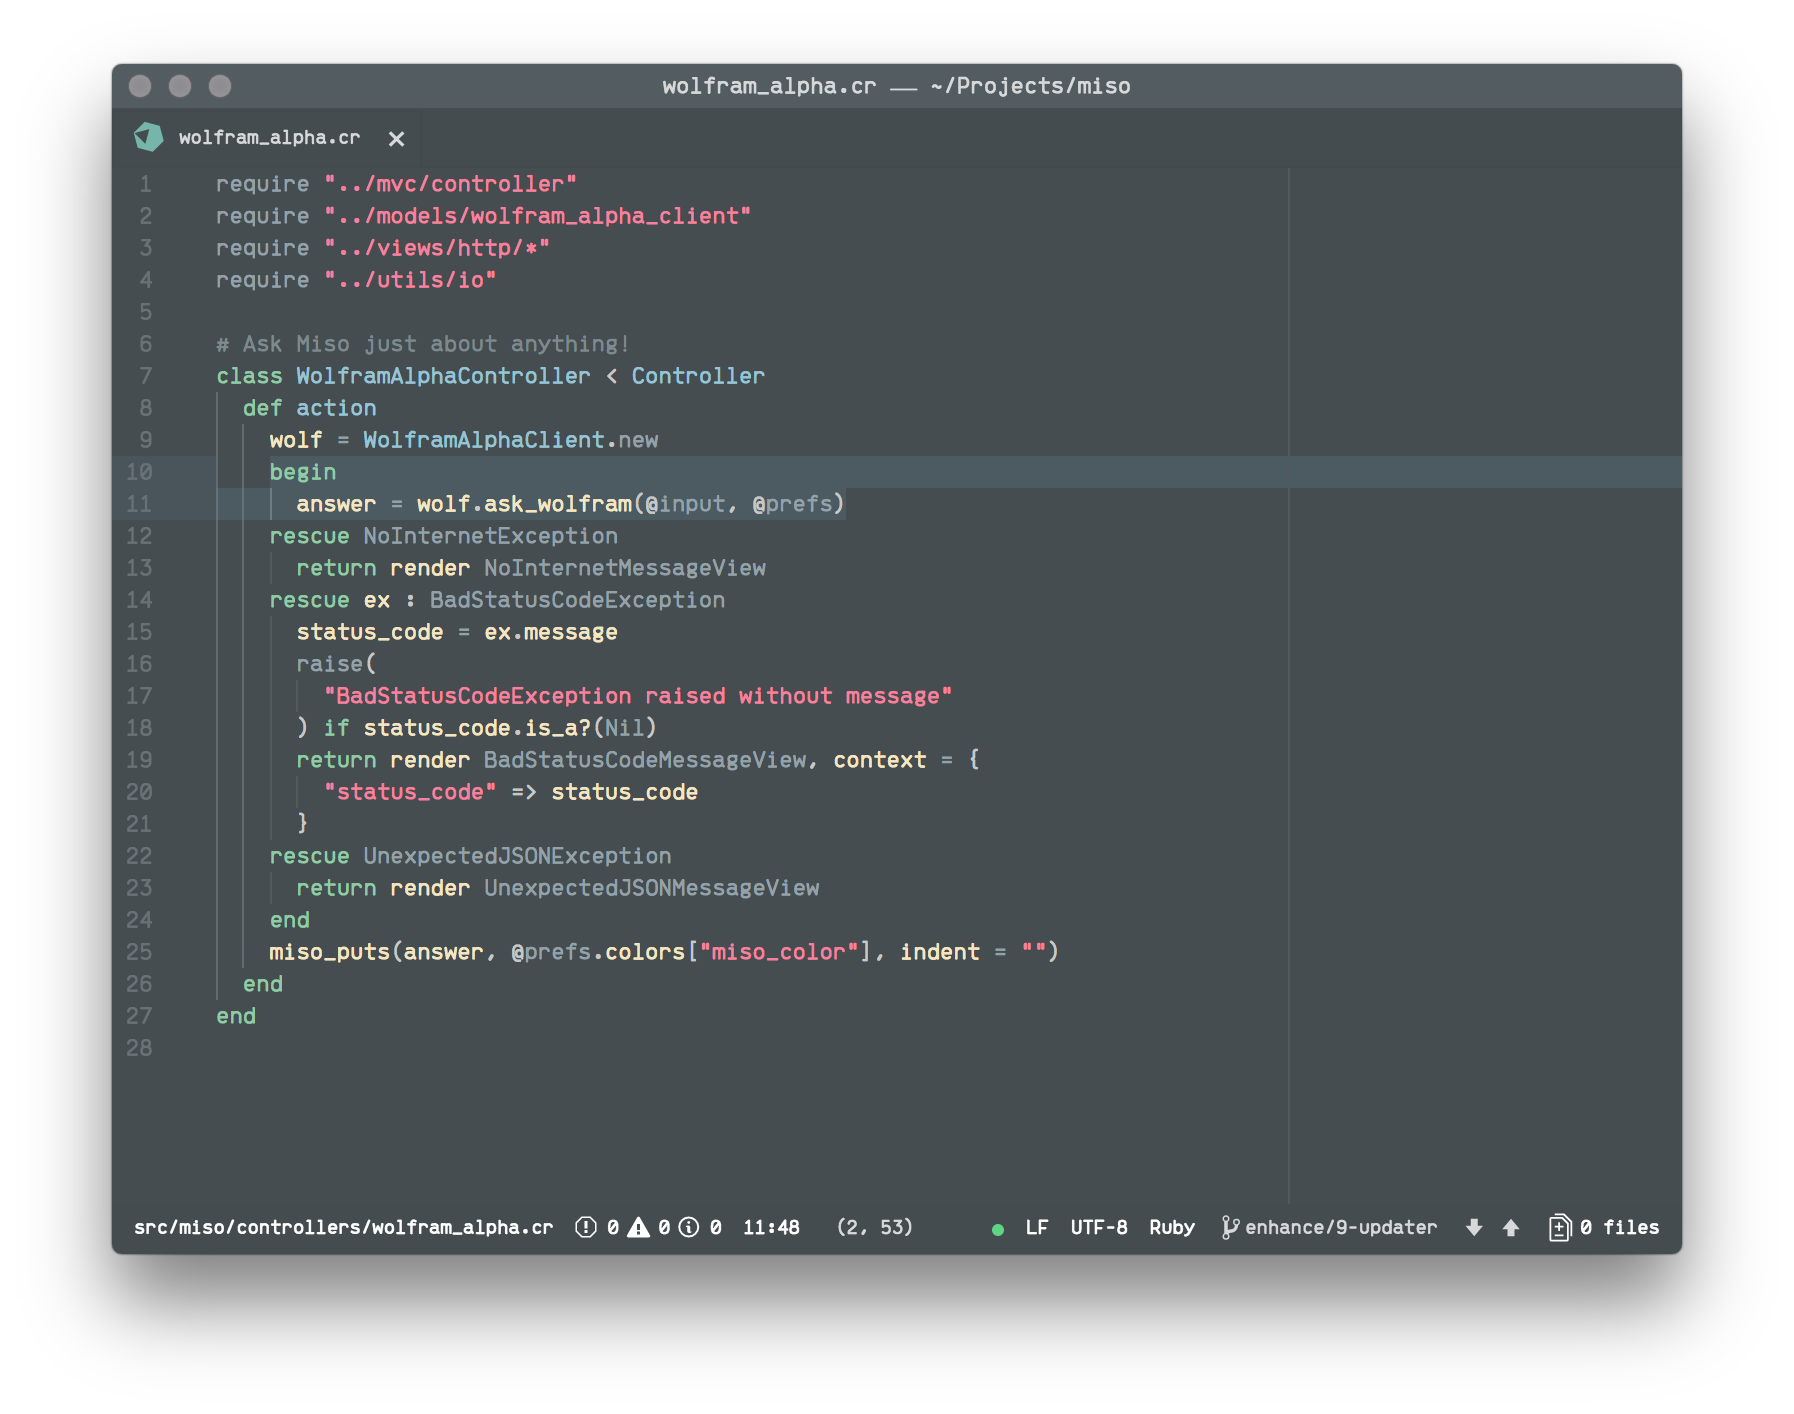
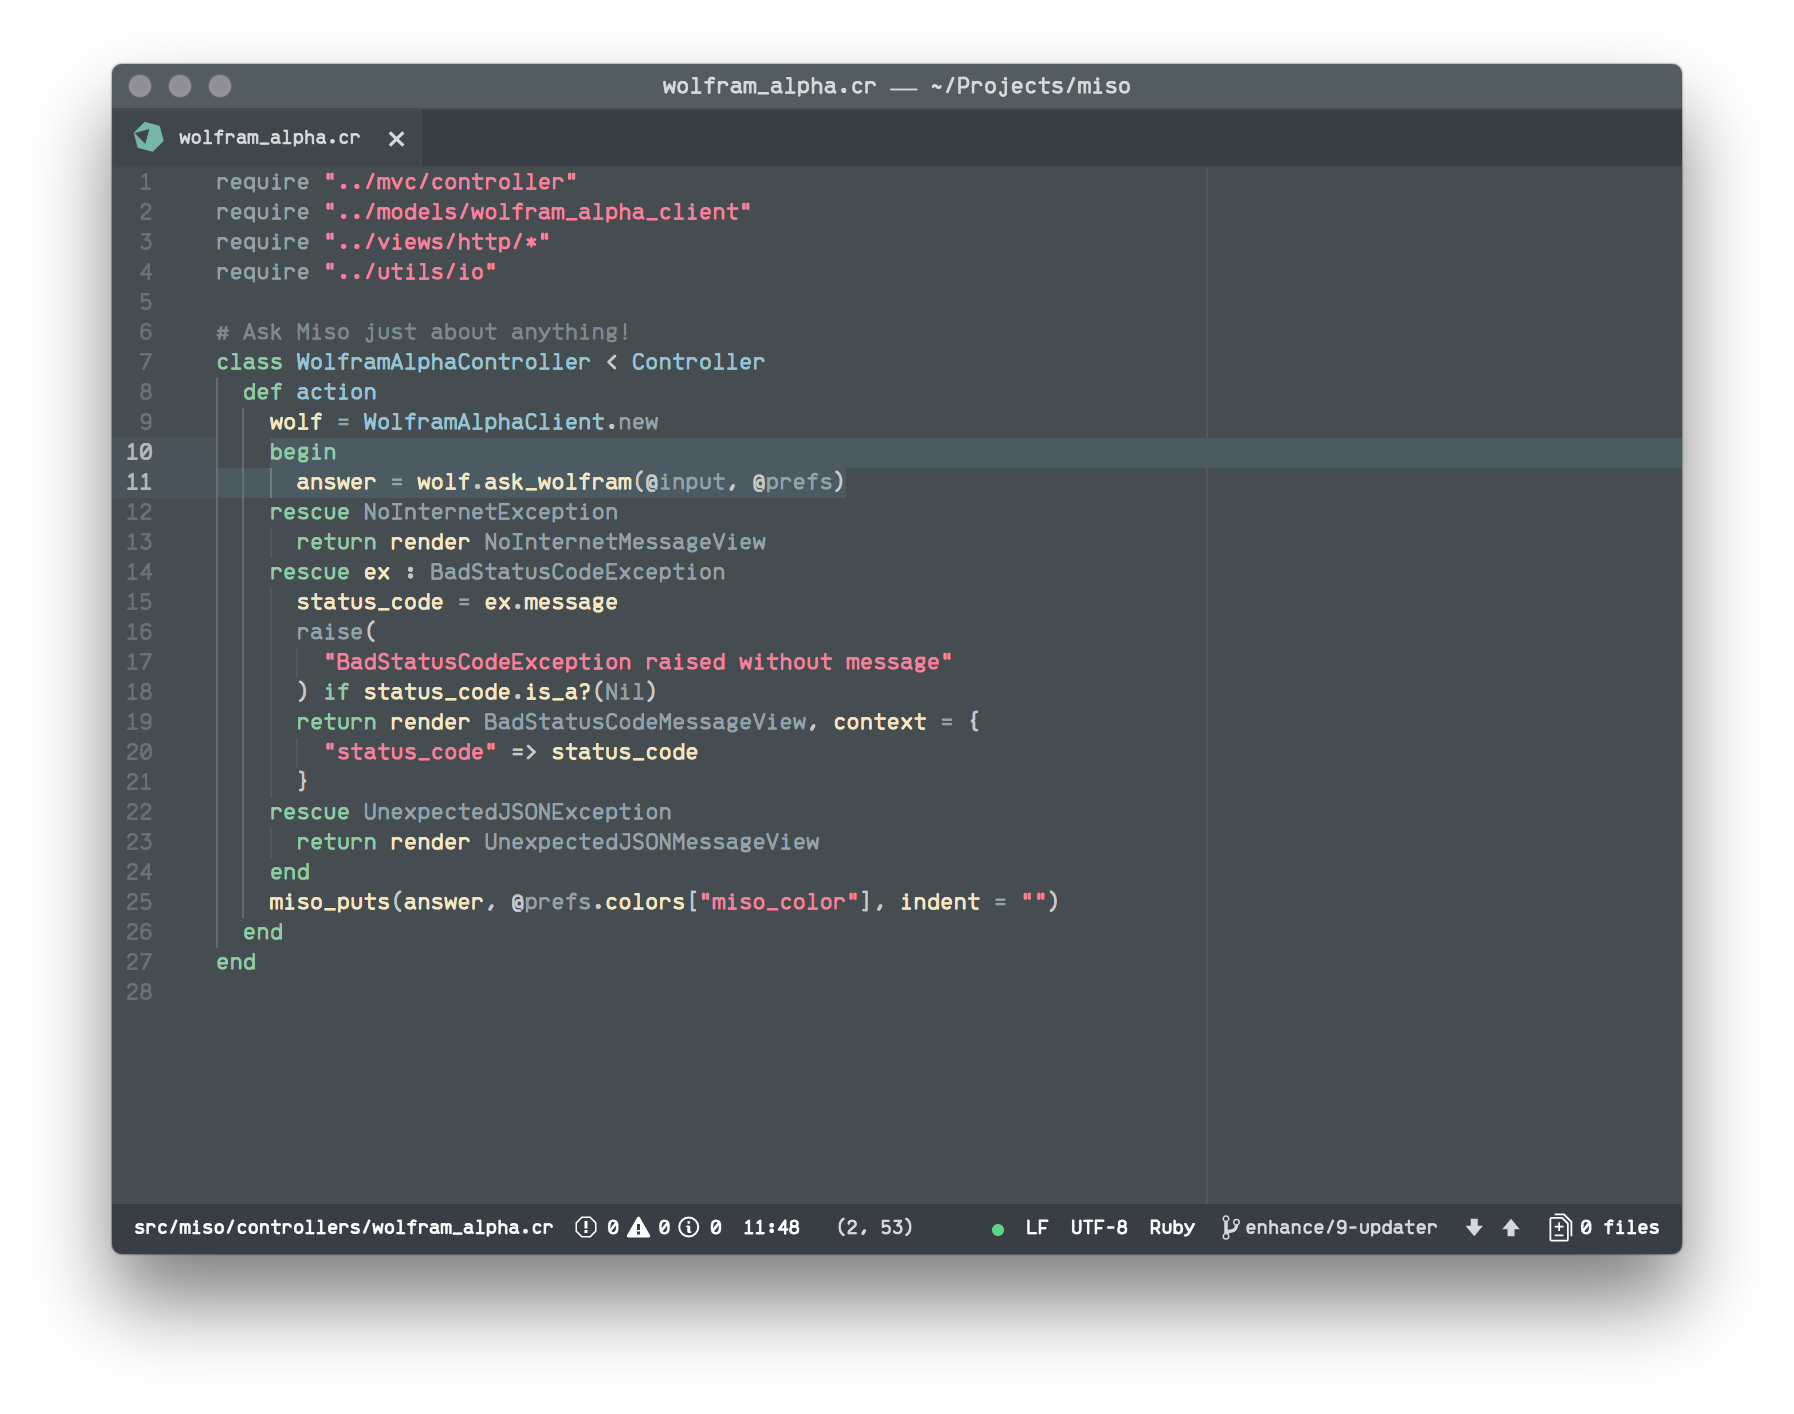
Highlight active line num text color

diff --git a/styles/syntax-variables.less b/styles/syntax-variables.less
@@ -21,7 +21,7 @@
 
 // Gutter colors
 @syntax-gutter-text-color: @gray;
-@syntax-gutter-text-color-selected: @syntax-gutter-text-color;
+@syntax-gutter-text-color-selected: white;
 @syntax-gutter-background-color: @very-dark-gray;
 @syntax-gutter-background-color-selected: @syntax-selection-color;
 

diff --git a/styles/colors.less b/styles/colors.less
@@ -1,6 +1,5 @@
 // These colors are specific to the theme. Do not use in a package!
 
-// @camel: #f1e2bf;
 @camel: #f5e6c2;
 @very-light-gray: #c5c8c6;
 @light-gray: #94a1a8;
